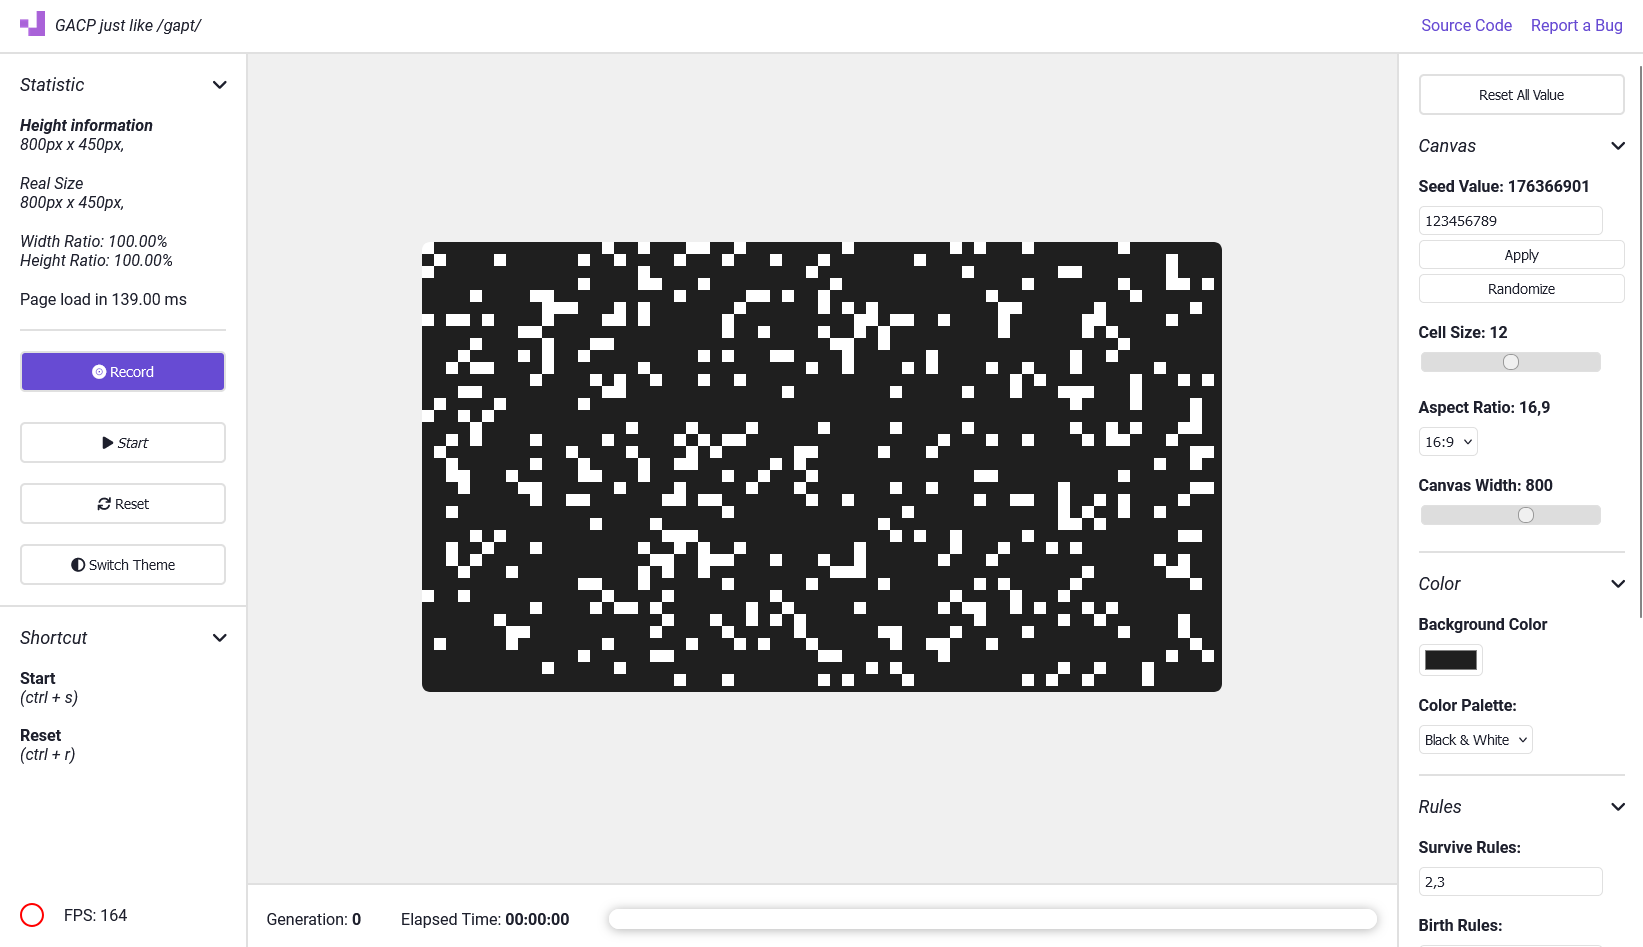
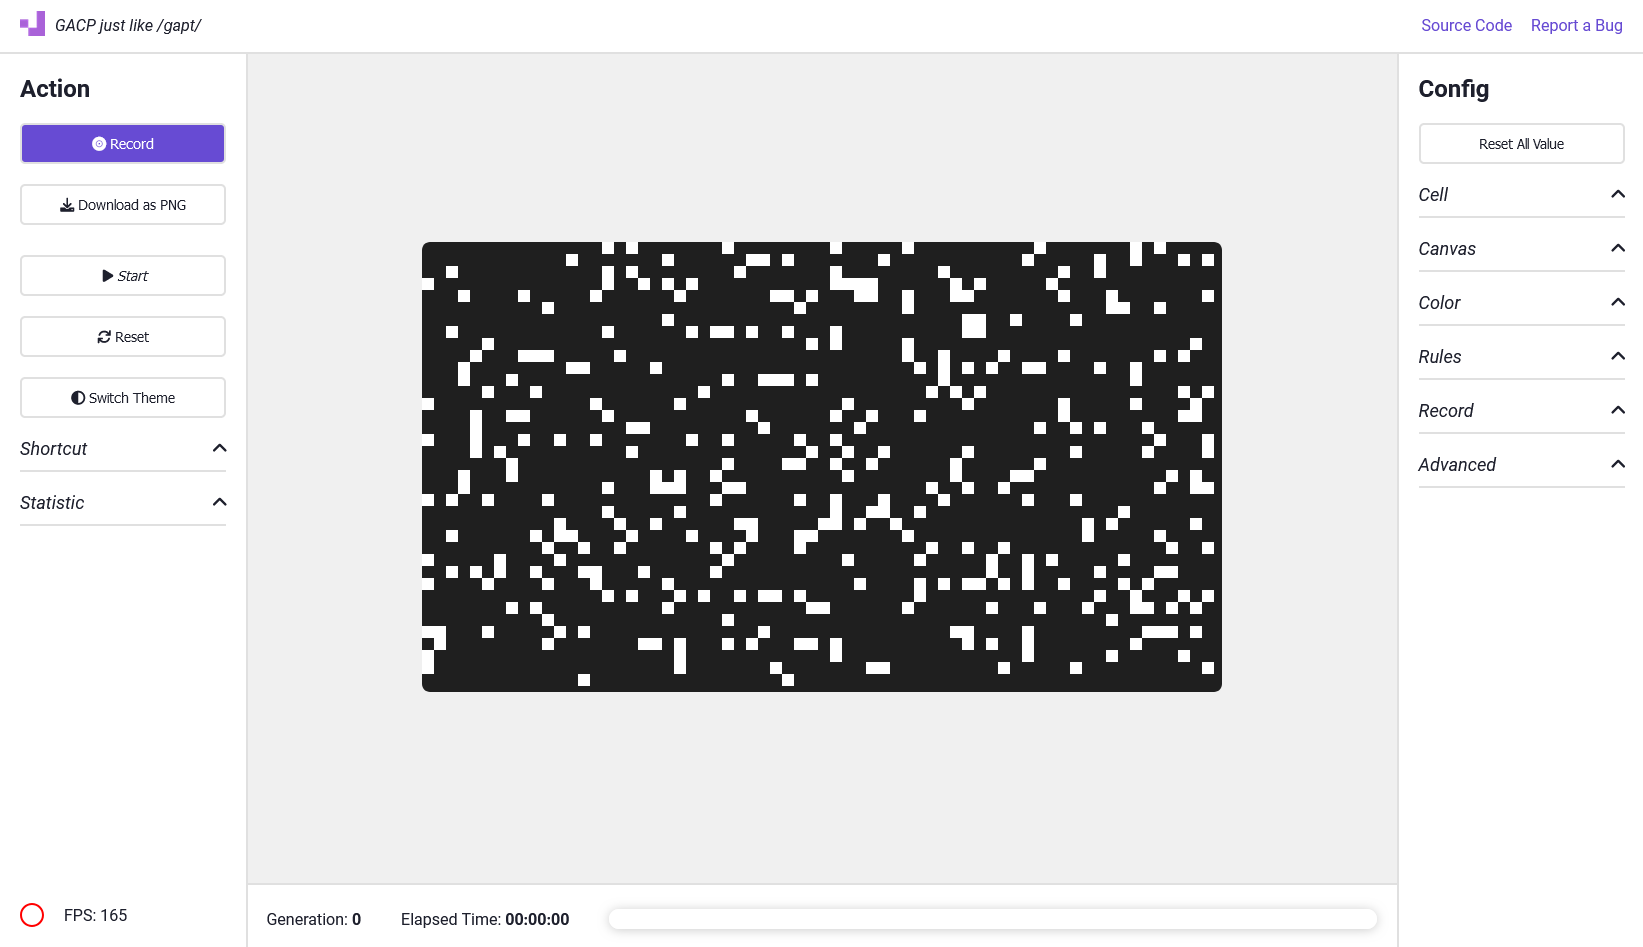
UI improvement
get back into the project

diff --git a/src/app.html b/src/app.html
@@ -17,8 +17,8 @@
     <div class="grid header">
         <div class="header-content">
             <div class="header-logo">
-                <a href="#" id="refreshLink">
-                    <img src="img/logo/favicon-32x32.png" alt="Generative Art Logo" class="logo">
+                <a draggable="false" href="#" id="refreshLink">
+                    <img src="img/logo/android-chrome-192x192.png" draggable="false" alt="Generative Art Logo" class="logo">
                 </a>
                 <em>GACP just like /ɡapt/</em>
 
@@ -26,22 +26,25 @@
 
 
             <nav class="header-nav">
-                <a href="https://github.com/strawberry-development/generative-art-cellular-patterns">Source Code</a>
-                <a href="https://github.com/strawberry-development/generative-art-cellular-patterns/issues/new">Report a
+                <a draggable="false" href="https://github.com/strawberry-development/generative-art-cellular-patterns">Source Code</a>
+                <a draggable="false" href="https://github.com/strawberry-development/generative-art-cellular-patterns/issues/new">Report a
                     Bug</a>
             </nav>
         </div>
     </div>
 
     <div class="grid panel">
+        <div class="controls ">
+            <h2>Config</h2>
+        </div>
         <div class="controls" style="padding: 0">
             <button id="resetConfig" class="button-padding button-fullsize">Reset All Value</button>
         </div>
 
         <div class="controls border-bottom">
-            <em onclick="toggleContent(this)" class="toggleEm">Canvas <span class="toggle-icon"><i
-                    class="fa fa-angle-down" aria-hidden="true"></i></span></em>
-            <div class="visible-content">
+            <em onclick="toggleContent(this)" class="toggleEm">Cell <span class="toggle-icon"><i
+                    class="fa fa-angle-up" aria-hidden="true"></i></span></em>
+            <div class="visible-content" style="display:none;">
                 <div class="control-group">
                     <label for="seedInput">Seed Value: <span id="seedValue"></span></label>
                     <input type="text" id="seedInput" placeholder="Enter a new seed value">
@@ -53,7 +56,13 @@
                     <label for="cellSize">Cell Size: <span id="cellSizeValue">Loading...</span></label>
                     <input type="range" id="cellSize" min="4" max="20" value="12">
                 </div>
+            </div>
+        </div>
 
+        <div class="controls border-bottom">
+            <em onclick="toggleContent(this)" class="toggleEm">Canvas <span class="toggle-icon"><i
+                    class="fa fa-angle-up" aria-hidden="true"></i></span></em>
+            <div class="visible-content" style="display:none;">
                 <div class="control-group">
                     <label for="aspectRatio">Aspect Ratio: <span id="aspectRatioValue">Loading...</span></label>
                     <select id="aspectRatio">
@@ -72,8 +81,8 @@
 
         <div class="controls border-bottom">
             <em onclick="toggleContent(this)" class="toggleEm">Color <span class="toggle-icon"><i
-                    class="fa fa-angle-down" aria-hidden="true"></i></span></em>
-            <div class="visible-content">
+                    class="fa fa-angle-up" aria-hidden="true"></i></span></em>
+            <div class="visible-content" style="display: none;">
                 <div class="control-group">
                     <label for="backgroundColor">Background Color</label>
                     <input type="color" id="backgroundColor" value="#1f1f1f">
@@ -99,8 +108,8 @@
 
         <div class="controls border-bottom">
             <em onclick="toggleContent(this)" class="toggleEm">Rules <span class="toggle-icon"><i
-                    class="fa fa-angle-down" aria-hidden="true"></i></span></em>
-            <div class="visible-content">
+                    class="fa fa-angle-up" aria-hidden="true"></i></span></em>
+            <div class="visible-content" style="display: none;">
                 <div class="control-group">
                     <label for="surviveRules">Survive Rules:</label>
                     <input type="text" id="surviveRules" value="2,3">
@@ -118,8 +127,8 @@
 
         <div class="controls border-bottom">
             <em onclick="toggleContent(this)" class="toggleEm">Record <span class="toggle-icon"><i
-                    class="fa fa-angle-down" aria-hidden="true"></i></span></em>
-            <div class="visible-content">
+                    class="fa fa-angle-up" aria-hidden="true"></i></span></em>
+            <div class="visible-content" style="display: none;">
                 <div class="control-group">
                     <label for="recordDuration">Record Duration (s): <span
                             id="recordDurationValue">Loading...</span></label>
@@ -135,8 +144,8 @@
 
         <div class="controls border-bottom">
             <em onclick="toggleContent(this)" class="toggleEm">Advanced <span class="toggle-icon"><i
-                    class="fa fa-angle-down" aria-hidden="true"></i></span></em>
-            <div class="visible-content">
+                    class="fa fa-angle-up" aria-hidden="true"></i></span></em>
+            <div class="visible-content" style="display: none;">
                 <div class="control-group">
                     <label for="toggleShortcuts">Enable Keyboard Shortcuts</label>
                     <input type="checkbox" id="toggleShortcuts" checked>
@@ -146,30 +155,10 @@
     </div>
 
     <div class="grid action">
-        <div class="controls border-bottom">
-            <em onclick="toggleContent(this)" class="toggleEm">Statistic <span class="toggle-icon"><i
-                    class="fa fa-angle-down" aria-hidden="true"></i></span></em>
-            <div class="visible-content">
-                <div class="control-group">
-                    <em><strong>Height information</strong></em>
-                    <div class="control-group">
-                        <em id="IntrinsicSize"></em><br>
-                    </div>
-                    <div class="control-group">
-                        <em>Real Size</em><br>
-                        <em id="ActualSize"></em><br>
-                    </div>
-
-                    <em id="WidthRatio"></em><br>
-                    <em id="HeightRatio"></em><br>
-                </div>
-                <div class="control-group">
-                    <span id="load-time">Calculating...</span>
-                </div>
-            </div>
+        <div class="controls ">
+            <h2>Action</h2>
         </div>
-
-        <div class="border-bottom">
+        <div>
             <div class="controls" style="padding: 0;">
                 <button id="record" class="button-padding button-fullsize">
                     <i class="fa-solid fa-record-vinyl"></i>
@@ -206,15 +195,40 @@
             <!-- <button id="importSettingsButton">Import Settings</button> -->
         </div>
 
-        <div class="controls">
+        <div class="controls border-bottom">
             <em onclick="toggleContent(this)" class="toggleEm">Shortcut<span class="toggle-icon"><i
-                    class="fa fa-angle-down" aria-hidden="true"></i></span></em>
-            <div class="visible-content">
-                <b>Start</b><br>
-                <em>(ctrl + s)</em>
-                <br><br>
-                <b>Reset</b><br>
-                <em>(ctrl + r)</em>
+                    class="fa fa-angle-up" aria-hidden="true"></i></span></em>
+            <div class="visible-content" style="display: none;">
+                <div class="control-group">
+                    <b>Start</b><br>
+                    <em>(ctrl + s)</em>
+                    <br><br>
+                    <b>Reset</b><br>
+                    <em>(ctrl + r)</em>
+                </div>
+            </div>
+        </div>
+
+        <div class="controls border-bottom">
+            <em onclick="toggleContent(this)" class="toggleEm">Statistic <span class="toggle-icon"><i
+                    class="fa fa-angle-up" aria-hidden="true"></i></span></em>
+            <div class="visible-content" style="display: none;">
+                <div class="control-group">
+                    <em><strong>Height information</strong></em>
+                    <div class="control-group">
+                        <em id="IntrinsicSize"></em><br>
+                    </div>
+                    <div class="control-group">
+                        <em>Real Size</em><br>
+                        <em id="ActualSize"></em><br>
+                    </div>
+
+                    <em id="WidthRatio"></em><br>
+                    <em id="HeightRatio"></em><br>
+                </div>
+                <div class="control-group">
+                    <span id="load-time">Calculating...</span>
+                </div>
             </div>
         </div>
     </div>

diff --git a/src/css/styles.css b/src/css/styles.css
@@ -78,6 +78,12 @@ body {
     background-color: var(--panel);
     grid-area: header;
     border-bottom: 2px solid var(--border-color);
+    user-drag: none;
+    -webkit-user-drag: none;
+    user-select: none;
+    -moz-user-select: none;
+    -webkit-user-select: none;
+    -ms-user-select: none;
 }
 
 .header-content {
@@ -347,7 +353,7 @@ pre {
     width: 100%;
     background: var(--panel);
     border-radius: 10px;
-    box-shadow: 0 1px 10px 0 rgba(0, 0, 0, 0.3);
+    box-shadow: 0 1px 10px 0 rgba(0, 0, 0, 0.2);
     margin: 20px;
 }
 
